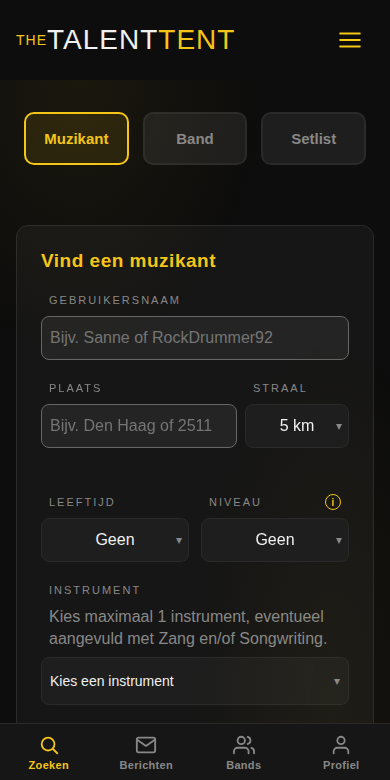
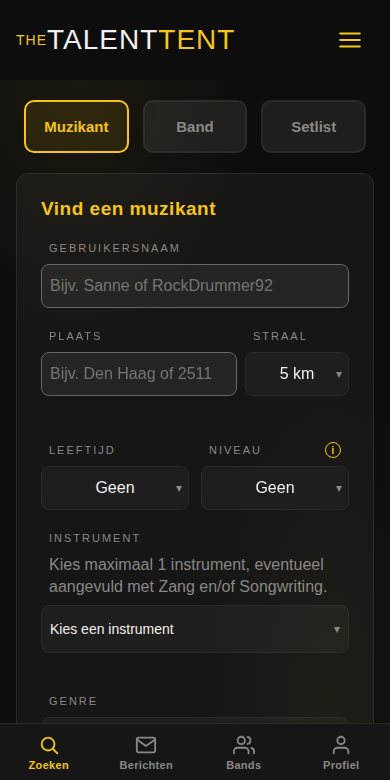
Add files via upload

diff --git a/styles.css b/styles.css
@@ -1022,11 +1022,16 @@
   .media-tab.active { background: var(--surface); color: var(--text); }
   /* :hover verplaatst naar de touch-guard verderop (TT-182). */
 
-  /* Zoeken: prominente, gecentreerde modus-knoppen (muzikant/band/setlist) */
+  /* Zoeken: prominente, gecentreerde modus-knoppen (muzikant/band/setlist).
+     TT-233 (10-09-2026, Ronald): boven en onder de knoppenrij stond 32px en
+     28px, en de zoekwikkel legde daar nog eens 48px bovenop. Dat gaf een lege
+     band tussen de knoppen en het filterpaneel. Nu boven en onder dezelfde
+     20px — de standaardafstand tussen twee blokken uit §3. Geldt voor alle
+     drie de zoekmodi, want deze rij staat er maar één keer. */
   .search-mode-tabs-outer {
     display: flex;
     justify-content: center;
-    padding: 32px 24px 28px;
+    padding: 20px 24px;
   }
   .search-mode-tabs {
     display: flex;
@@ -1631,7 +1636,9 @@
   .search-wrap {
     width: 100%;
     margin: 0 auto;
-    padding: 48px 24px 80px;
+    /* Geen eigen ruimte bovenaan: de knoppenrij erboven levert die al. Twee
+       blokken die allebei hun eigen marge meebrengen, tellen op. */
+    padding: 0 24px 80px;
   }
 
   /* Standaard witruimte tussen twee blokken in het filterpaneel: 20px, zoals
@@ -2390,7 +2397,11 @@
        blijft ongewijzigd, alleen het icoon zelf wordt groter getekend). */
     #navMenuBtn svg { width: 26px; height: 26px; }
     .nav-menu-dropdown { right: 16px; top: -18px; }
-    .search-wrap, .my-profile-wrap { padding: 32px 16px 60px; }
+    /* TT-233: geen eigen ruimte bovenaan bij Zoeken — de knoppenrij erboven
+       levert die al (20px). Mijn Profiel heeft geen knoppenrij en houdt zijn
+       32px. */
+    .search-wrap { padding: 0 16px 60px; }
+    .my-profile-wrap { padding: 32px 16px 60px; }
     /* TT-130 (23-08-2026): op de telefoon scrolden de gespreksnaam en het
        invoerveld gewoon mee met de berichtenlijst — bij een langer gesprek,
        of zodra het toetsenbord opkomt, verdwenen beide. Geen enkele
